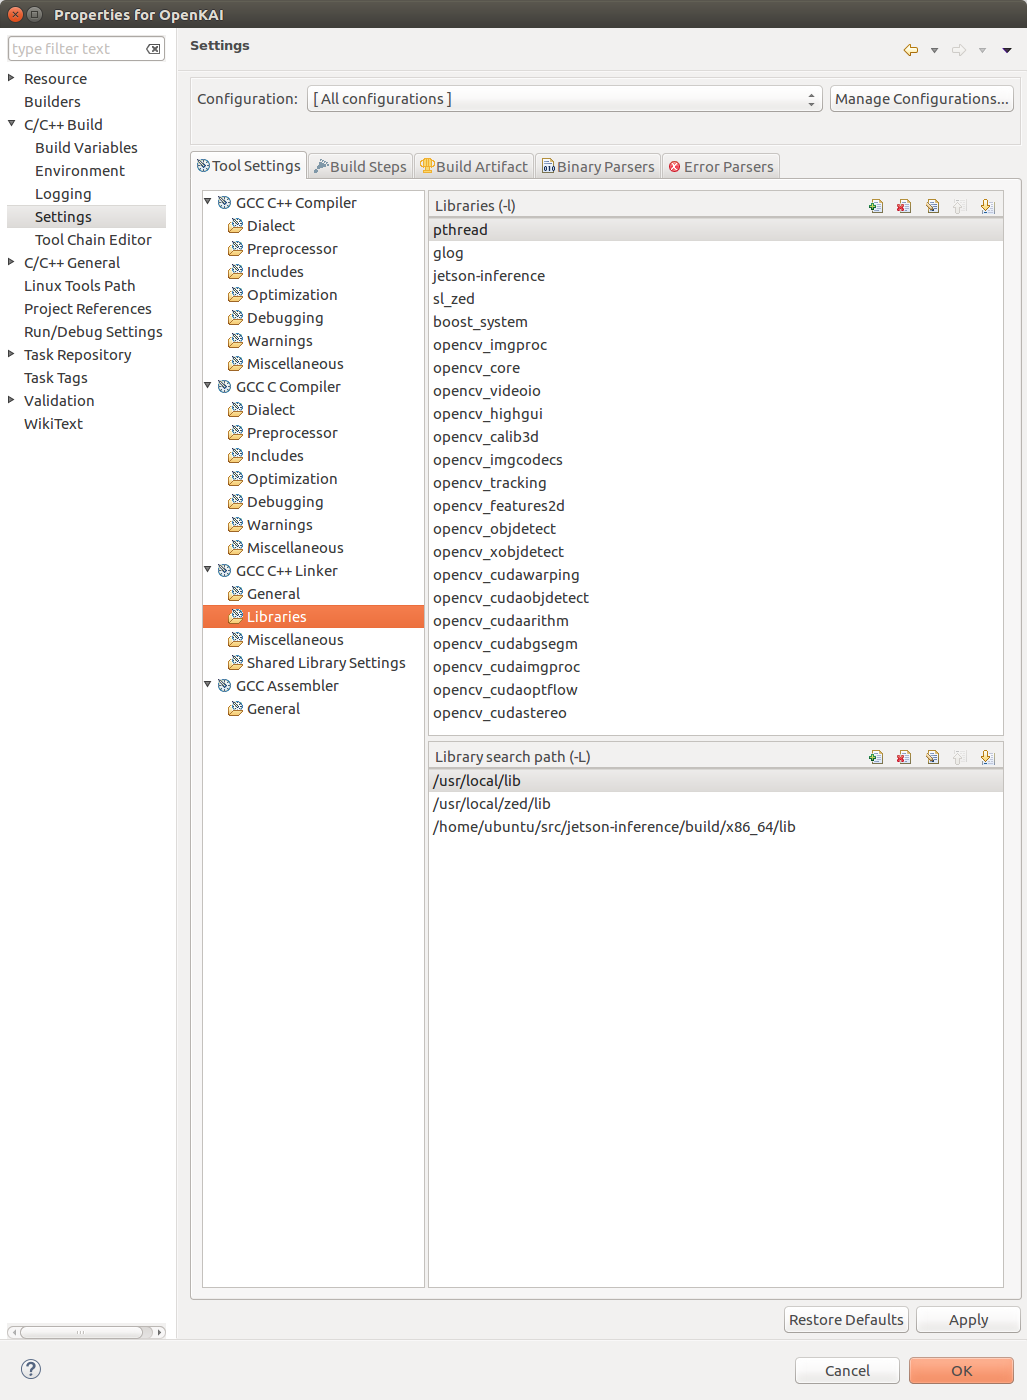
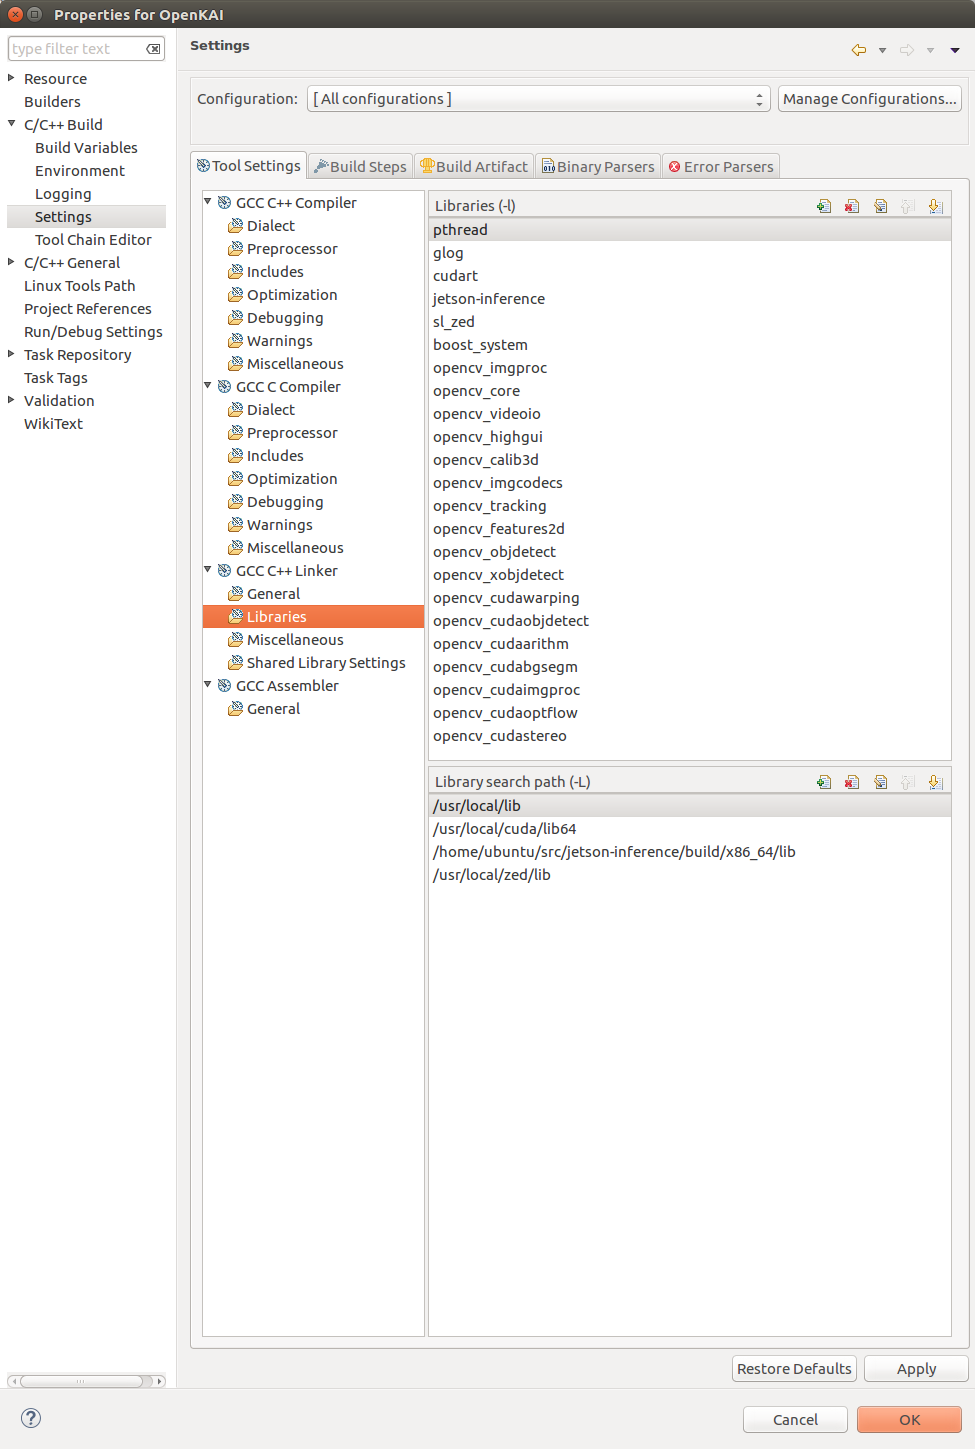
Set use TensorRT to be default for desktop

diff --git a/src/Config/switch.h b/src/Config/switch.h
@@ -3,7 +3,7 @@
 
 //User defined switch
 #define USE_CUDA
-//#define USE_TENSORRT
+#define USE_TENSORRT
+#define USE_ZED
 //#define USE_SSD
 //#define USE_CAFFE
-#define USE_ZED

diff --git a/doc/x86_64/Ubuntu16.04LTS/eclipse.md b/doc/x86_64/Ubuntu16.04LTS/eclipse.md
@@ -5,6 +5,10 @@ tar xzvf eclipse
 --launcher.appendVmargs
 -vmargs
 
+
+sudo echo -e "/usr/local/cuda/lib64\n/home/ubuntu/src/jetson-inference/build/x86_64/lib" >> /etc/ld.so.conf
+sudo ldconfig
+
 #OpenKAI
 mkdir workspace
 git clone https://github.com/yankailab/OpenKAI.git
